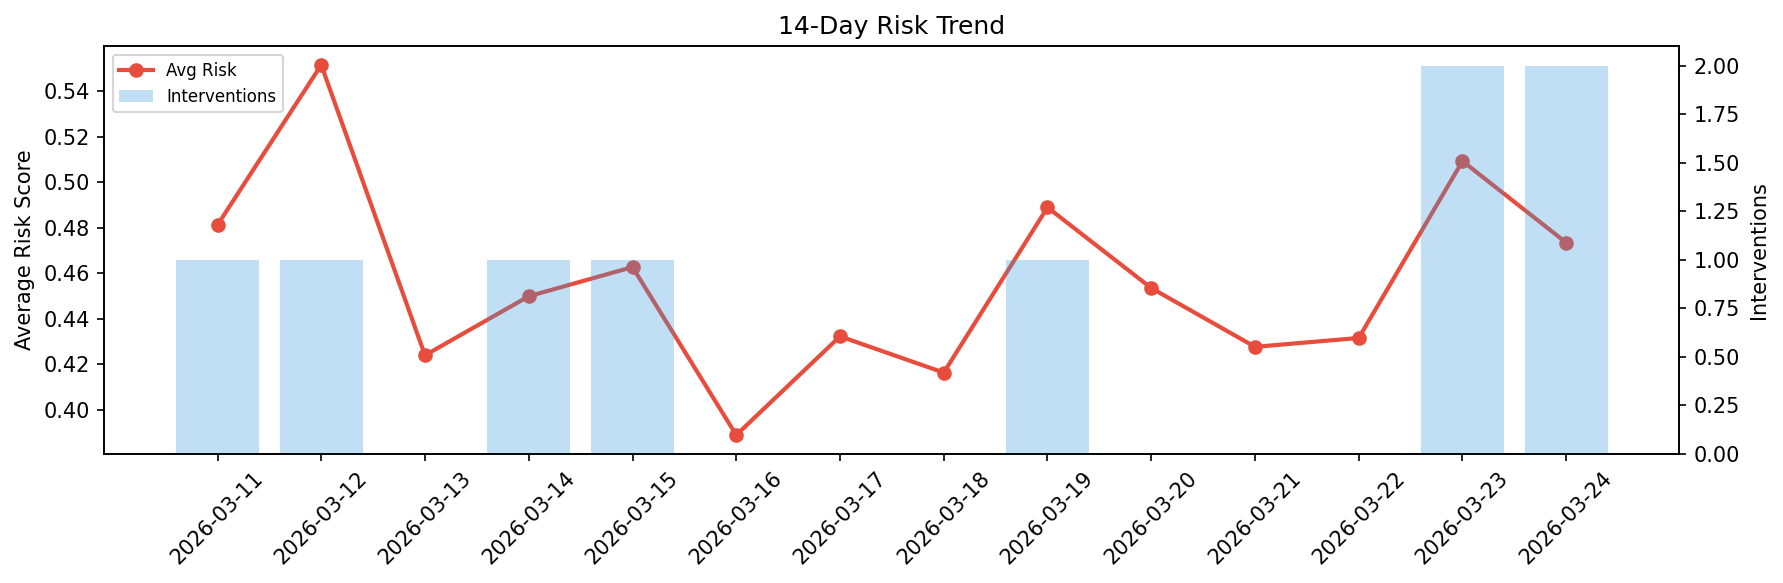
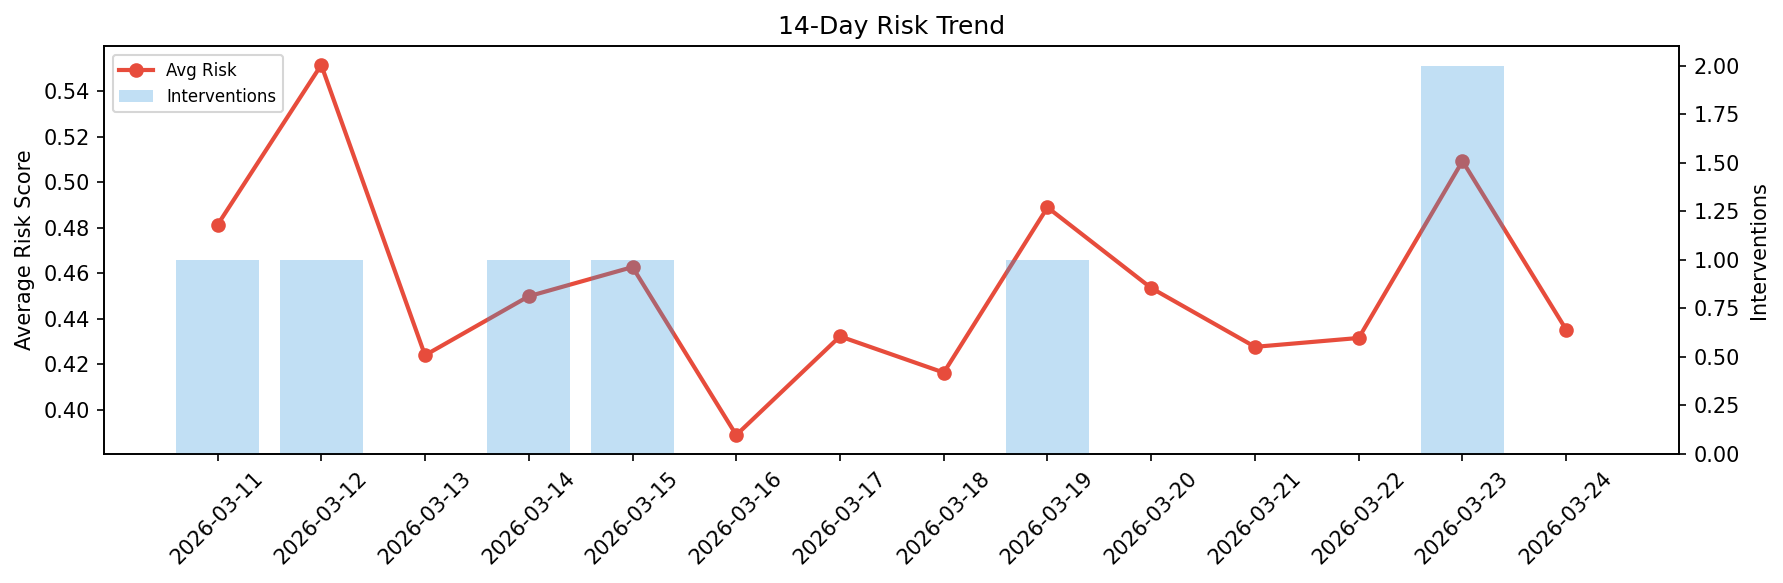
agent-improvement: daily cycle 2026-03-24T15:21

Changed region(s): [[0.802, 0.0926, 0.9254, 0.8027]]

diff --git a/logs/2026-03-24.md b/logs/2026-03-24.md
@@ -1,6 +1,6 @@
 # Agent Improvement Report — 2026-03-24
 
-**Cycle ID:** `4de067d3` | **Avg Risk:** 0.4734 | **Interventions:** 2/4
+**Cycle ID:** `31931a44` | **Avg Risk:** 0.4352 | **Interventions:** 0/4
 
 ![Dashboard](2026-03-24_dashboard.png)
 
@@ -10,18 +10,18 @@
 
 | Domain | Risk Score | Decision | Alerts |
 |--------|-----------|----------|--------|
-| code_review | 0.795 | intervene | complexity, duplication |
-| incident_response | 0.6114 | intervene | mttr |
-| data_pipeline | 0.1281 | monitor | none |
-| deployment | 0.3591 | monitor | none |
+| code_review | 0.3453 | monitor | complexity |
+| incident_response | 0.475 | monitor | blast_radius |
+| data_pipeline | 0.3542 | monitor | none |
+| deployment | 0.5661 | monitor | canary_error |
 
 ## Delta vs Yesterday
 
 | Domain | Today | Yesterday | Change |
 |--------|-------|-----------|--------|
-| code_review | 0.795 | 0.4489 | 📈 77.1% |
-| incident_response | 0.6114 | 0.6761 | 📉 -9.6% |
-| data_pipeline | 0.1281 | 0.7056 | 📉 -81.8% |
-| deployment | 0.3591 | 0.2064 | 📈 74.0% |
+| code_review | 0.3453 | 0.4489 | 📉 -23.1% |
+| incident_response | 0.475 | 0.6761 | 📉 -29.7% |
+| data_pipeline | 0.3542 | 0.7056 | 📉 -49.8% |
+| deployment | 0.5661 | 0.2064 | 📈 174.3% |
 
-**Refinement:** `{'adjustment': 'maintain', 'trend': 'improving', 'window': 4}`
+**Refinement:** `{'adjustment': 'tighten_thresholds', 'trend': 'degrading', 'window': 4}`
